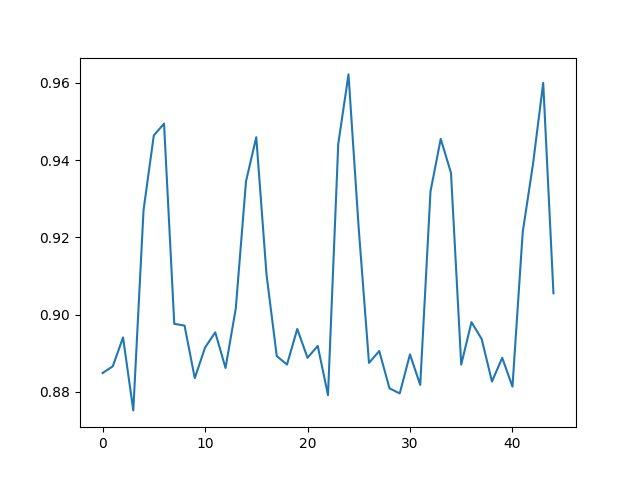
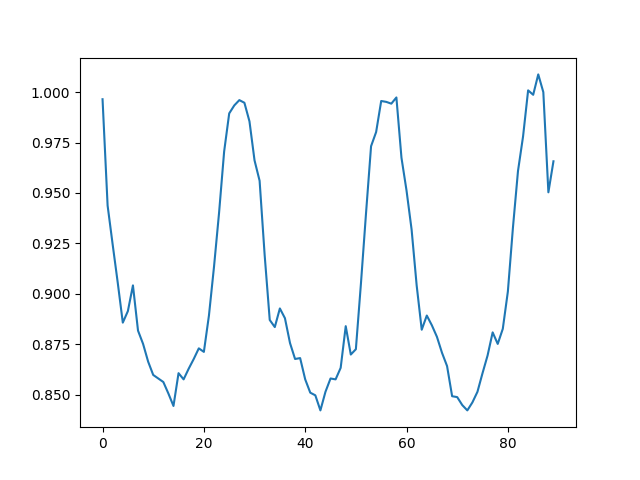
teste 3

diff --git a/analogIn.py b/analogIn.py
@@ -8,17 +8,27 @@ def readData():
 
 ADC.setup()
 pin = "P9_37"
-hz = 1350
+hz = 1800
 a = []
 t = 2
 
 print("Comecando!")
 
+old = time()
+j = 0
+
 while(True):
-    readData()
-    sleep(1/hz)
-    if len(a) >= (hz/60)*2:
+    i = 0
+    while i < 60:
+        now = time()
+        if now - old >= 1/hz:
+            old = now
+            now = time()
+            readData()
+            i+=1
+    if j == 2:
         break
+    j+=1
 
 print(len(a))
 

diff --git a/plot.py b/plot.py
@@ -15,5 +15,5 @@ def plotAll(source, path):
     plt.savefig(path)
     plt.clf
 
-plotXLines("voltage.csv", "img1.png", 45)
+plotXLines("voltage.csv", "img1.png", 90)
 plotAll("voltage.csv", "img2.png")
